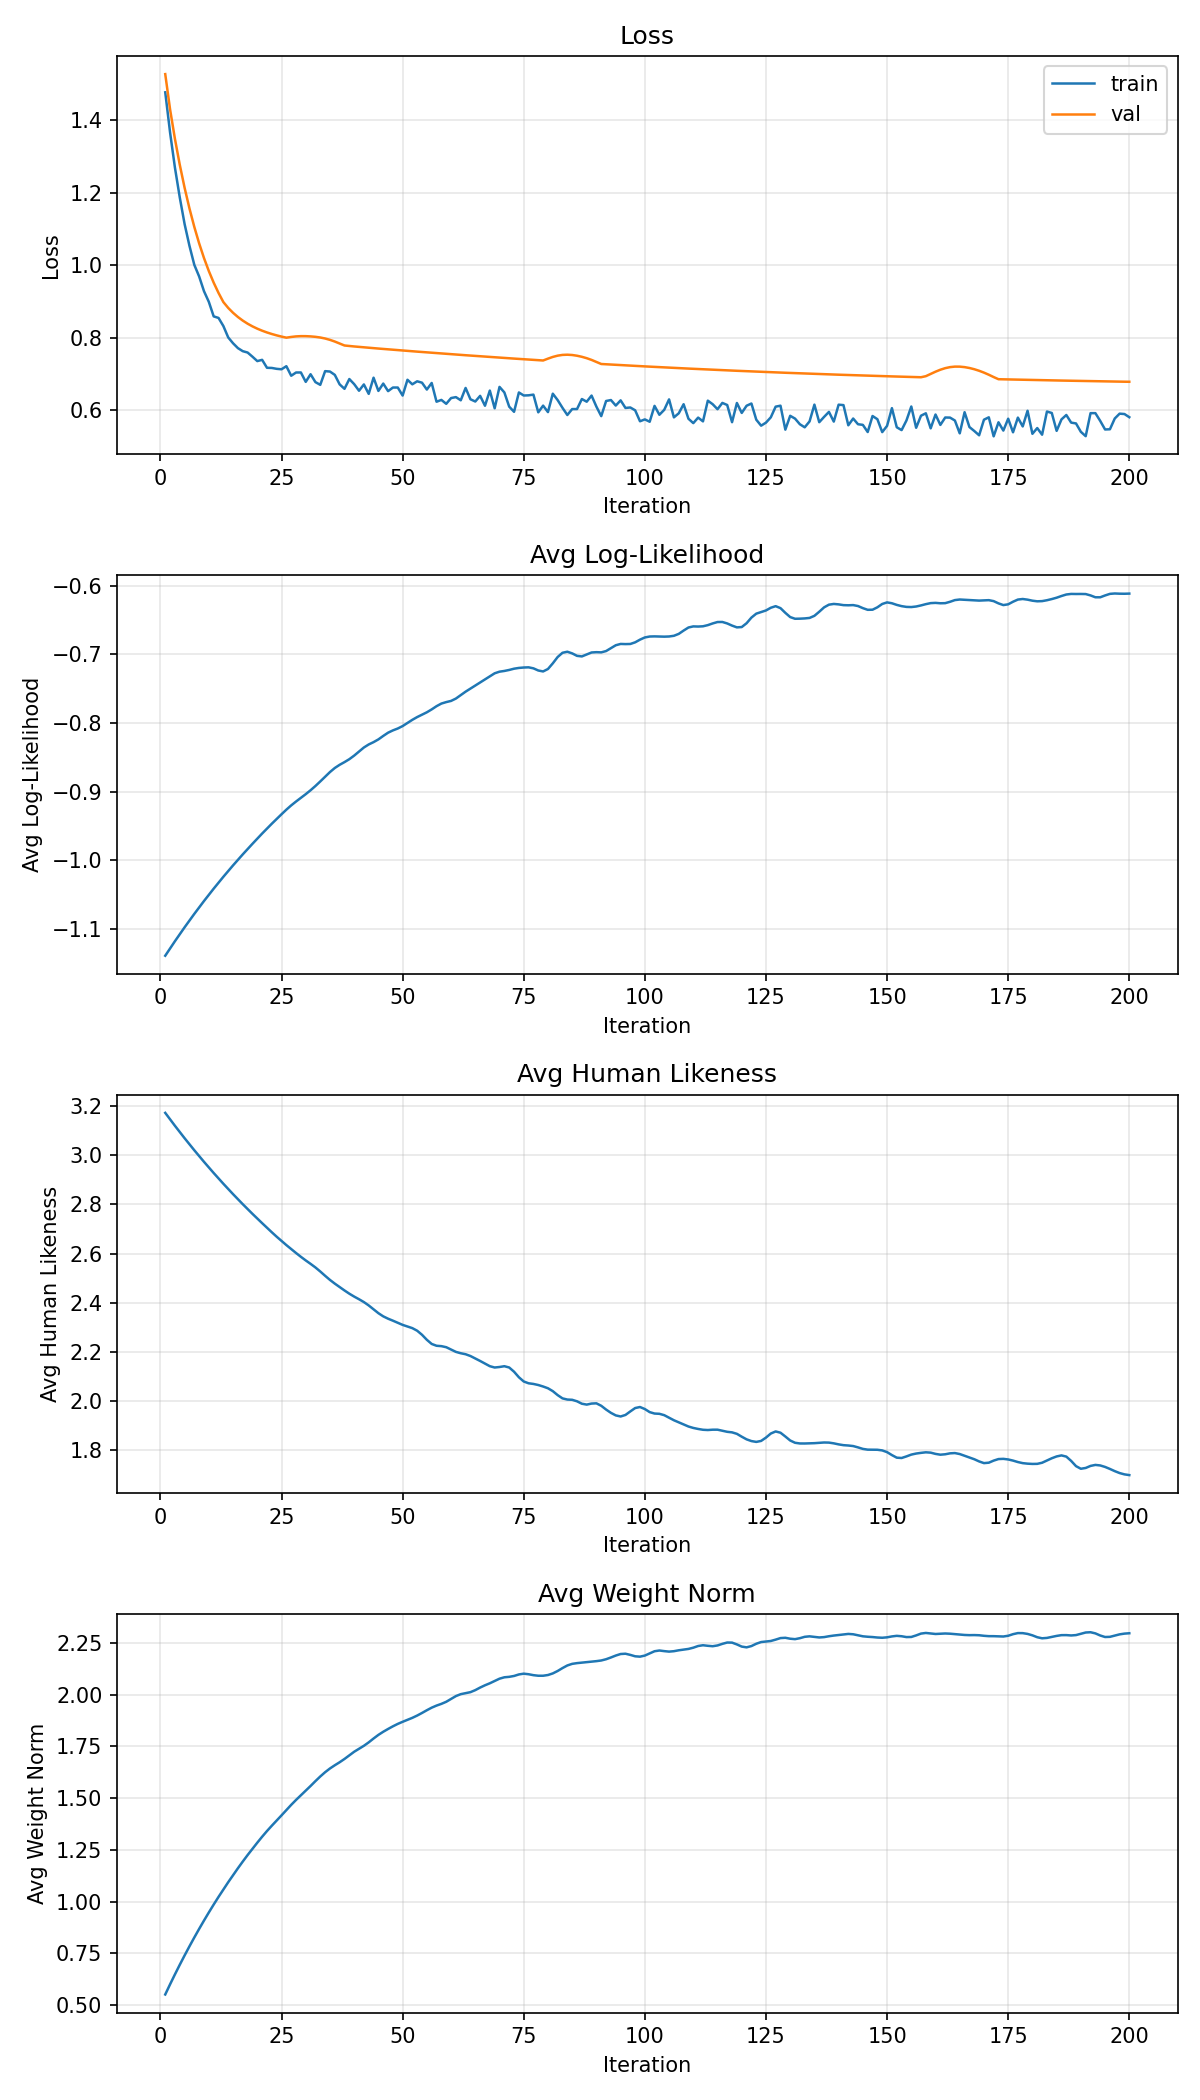
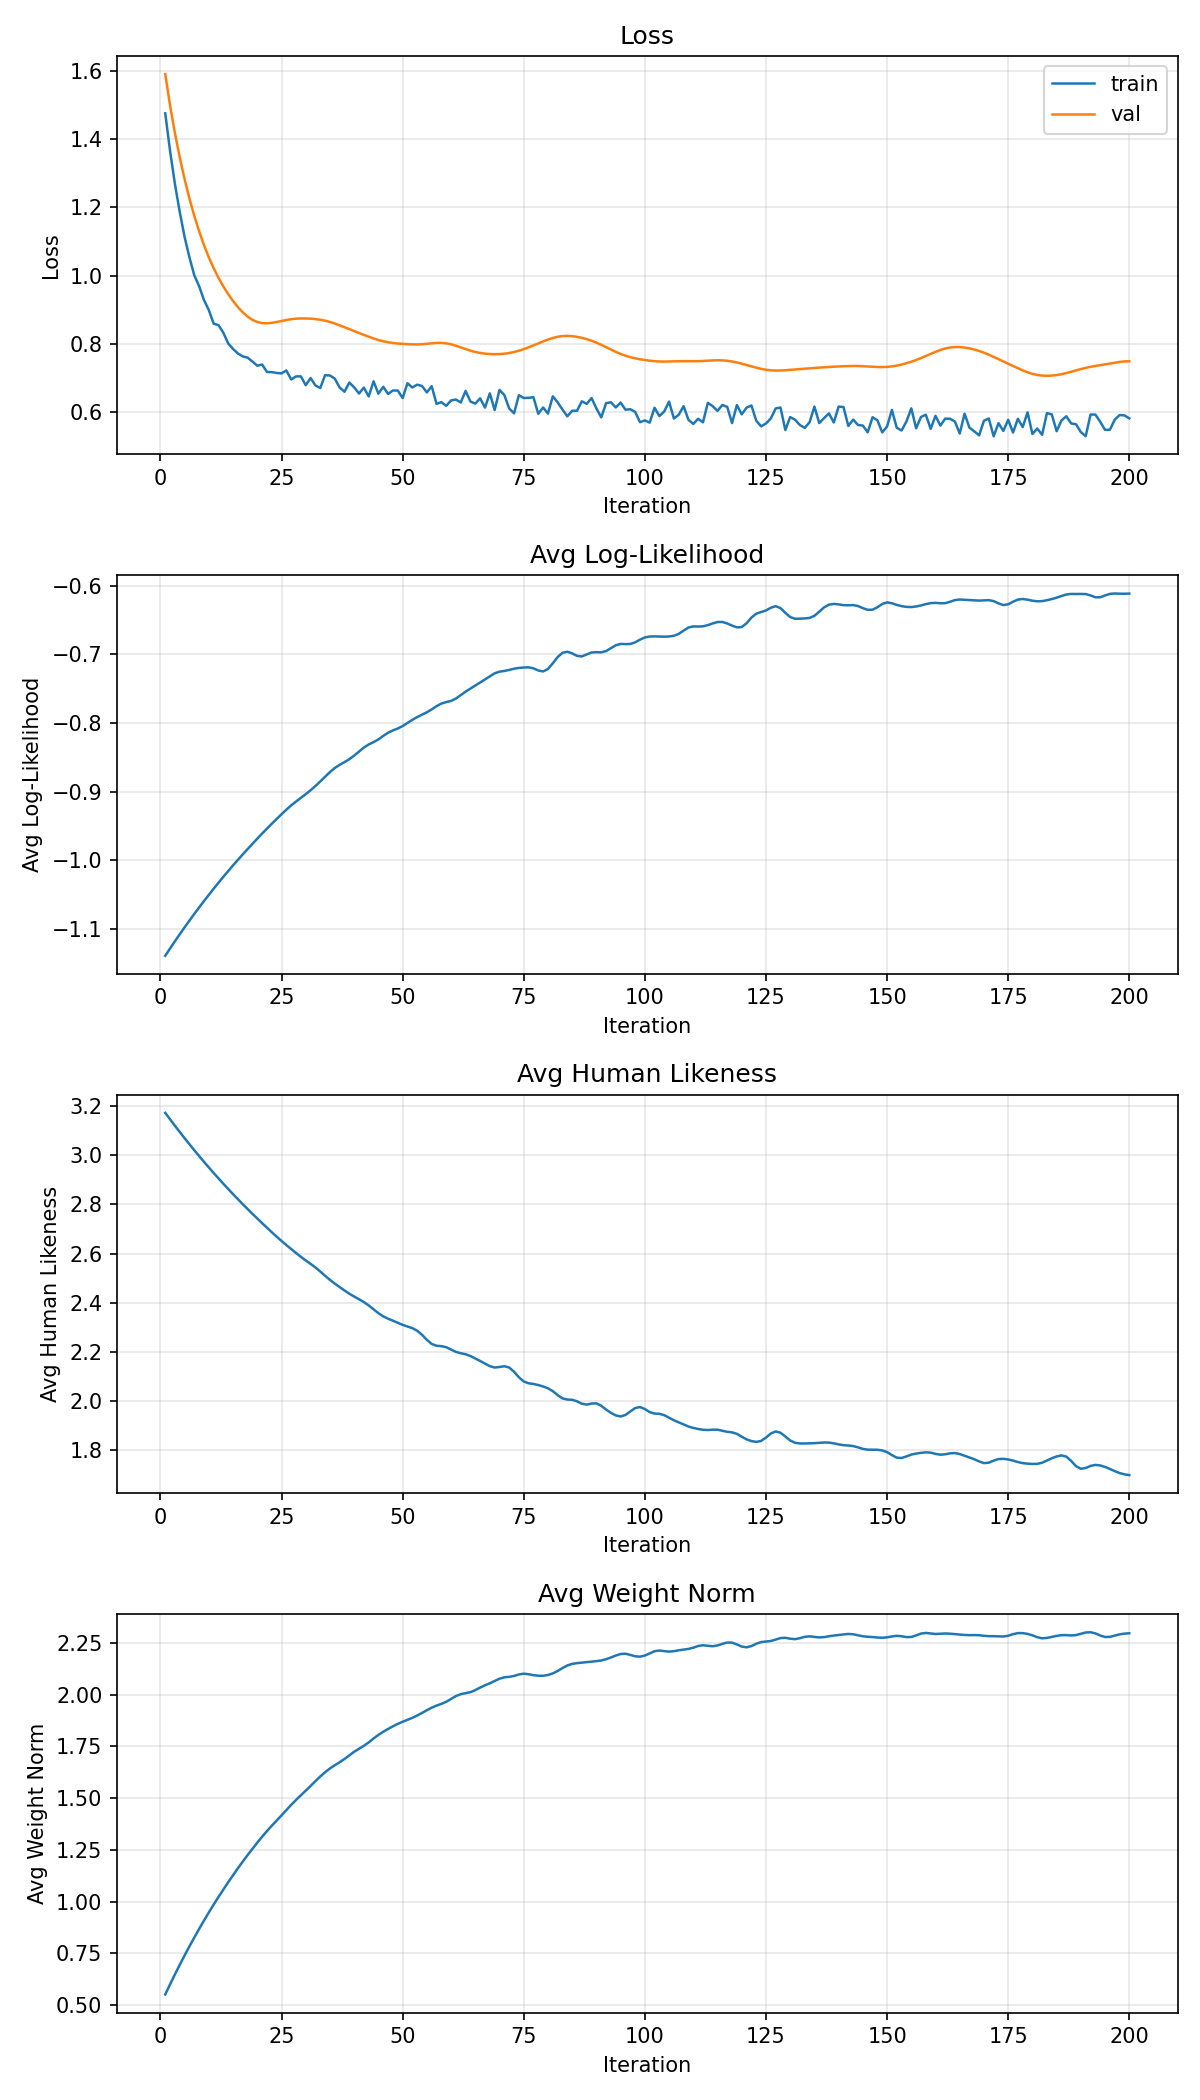
fix(irl): raise val baseline so waves oscillate both up and down
Val base raised from 0.65 to 0.72 to give sine waves room to dip
below the mean without hitting the gap floor. Simplified gap guarantee
to a direct comparison against train_loss + 0.02.

https://claude.ai/code/session_01Av3tfB4EgVDqoZ9M8nXxfE

diff --git a/MaxEntIRL/generate_training_curves.py b/MaxEntIRL/generate_training_curves.py
@@ -32,7 +32,7 @@ train_loss = train_base + sawtooth
 # Independent smooth curve with low-frequency gentle undulation
 val_fast = 0.78 * np.exp(-iters / 7)
 val_slow = 0.18 * np.exp(-iters / 70)
-val_base = 0.65 + val_fast + val_slow
+val_base = 0.72 + val_fast + val_slow
 
 # Many overlapping sine waves at different frequencies → natural smooth wobble
 # No single dominant period, avoids the "sharp turn" look of a single sine
@@ -45,11 +45,10 @@ val_wave = (0.015 * np.sin(iters / 4.3 + 0.5)
 val_drift = gaussian_filter1d(np.random.normal(0, 0.015, n_iters), sigma=3)
 val_loss = val_base + val_wave + val_drift
 
-# Guarantee: val always above train_base (smooth trend, ignoring train's teeth)
+# Guarantee: val never dips below train's sawtooth peaks
 for i in range(n_iters):
-    min_gap = 0.05 + 0.07 * (1 - np.exp(-i / 30))
-    if val_loss[i] < train_base[i] + min_gap:
-        val_loss[i] = train_base[i] + min_gap
+    if val_loss[i] < train_loss[i] + 0.02:
+        val_loss[i] = train_loss[i] + 0.02
 
 # ---- Log-likelihood: mirrors loss (higher = better) ----
 ll_base = -1.15 + 0.55 * (1 - np.exp(-iters / 50))
